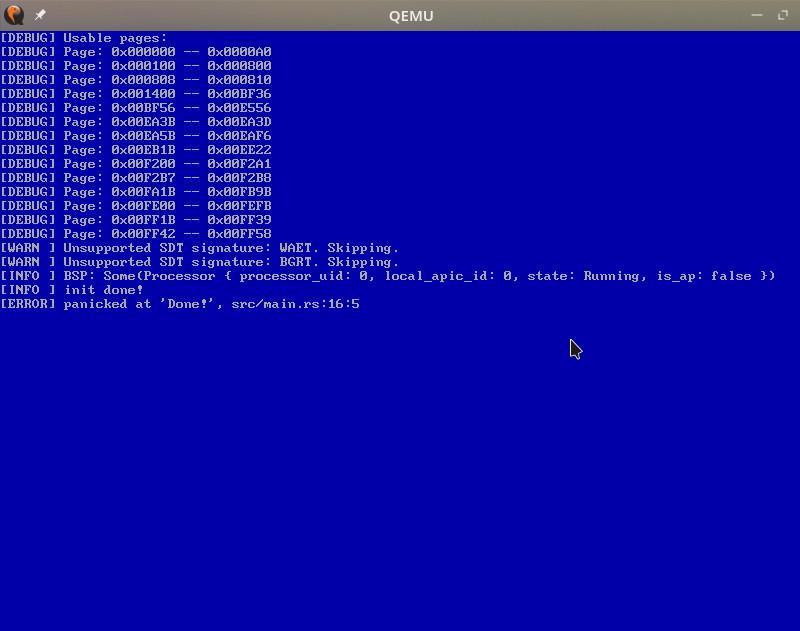
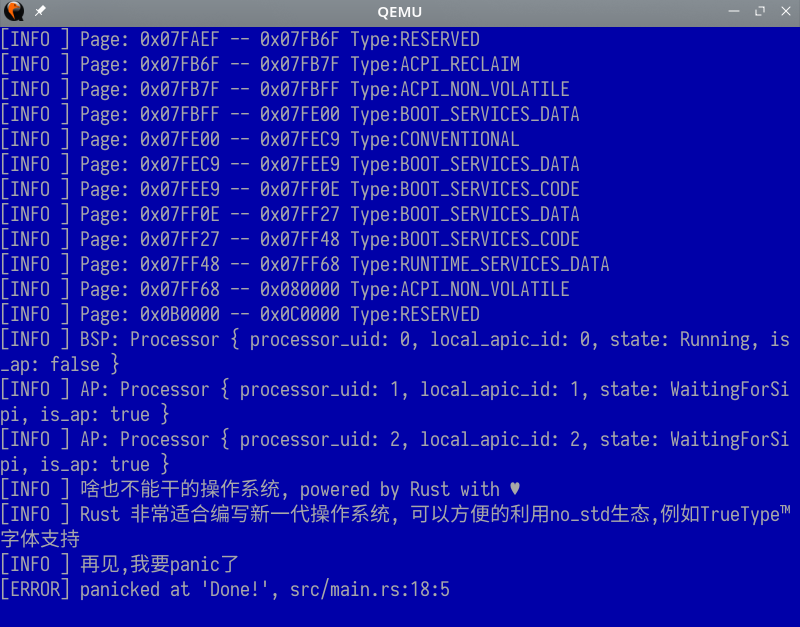
make truefont work!

diff --git a/src/console/uefifb.rs b/src/console/uefifb.rs
@@ -1,8 +1,17 @@
 use super::CONSOLE;
+use core::ptr::NonNull;
 use fbterm::*;
-use uefi::{prelude::*, proto::console::gop::GraphicsOutput};
+use uefi::{
+    prelude::*,
+    proto::console::gop::GraphicsOutput,
+    proto::media::{
+        file::{File, FileAttribute, FileInfo, FileMode, FileType},
+        fs::SimpleFileSystem,
+    },
+    table::boot,
+};
 
-pub fn init(st: &SystemTable<Boot>) {
+pub fn get_fb(st: &SystemTable<Boot>) -> Framebuffer<'static, RGBA8888> {
     let bt = st.boot_services();
     let gop = bt
         .locate_protocol::<GraphicsOutput>()
@@ -15,10 +24,78 @@ pub fn init(st: &SystemTable<Boot>) {
     let background = RGBA8888::new(0, 0, 0, 0xA8);
     let foreground = RGBA8888::new(255, 0xA8, 0xA8, 0xA8);
     let (w, h) = info.resolution();
-    let fb = unsafe { Framebuffer::new(fb, w, h, info.stride(), background, foreground) };
-    let mut fbterm = Fbterm::new(fb, fbterm::Fonts::VGA8x14);
-    fbterm.clear();
-    CONSOLE.lock().fbterm = Some(fbterm);
+    let fb = NonNull::new(fb).unwrap();
+    unsafe { Framebuffer::new(fb, w, h, info.stride(), background, foreground) }
+}
+
+pub fn get_font(st: &SystemTable<Boot>) -> &'static [u8] {
+    let bt = st.boot_services();
+    let fs = bt
+        .locate_protocol::<SimpleFileSystem>()
+        .expect_success("UEFI SimpleFileSystem not support");
+    let fs = unsafe { &mut *fs.get() };
+    let mut root = fs.open_volume().expect_success("Open volume failed");
+    let font_file = root
+        .open("font.ttf", FileMode::Read, FileAttribute::VALID_ATTR)
+        .expect_success("Failed to load font.ttf")
+        .into_type()
+        .expect_success("file.into_type");
+    let mut font_file = match font_file {
+        FileType::Dir(_) => {
+            panic!("Expect font.ttf is a regular file, not a diectory!");
+        }
+        FileType::Regular(file) => file,
+    };
+    info!("open font.ttf");
+    let file_size = {
+        let mut len = 128;
+        let mut buffer_ptr = bt
+            .allocate_pool(boot::MemoryType::LOADER_DATA, len)
+            .expect_success("alloc failed");
+        let mut buffer = unsafe { core::slice::from_raw_parts_mut(buffer_ptr, len) };
+        let file_info = loop {
+            match font_file.get_info::<FileInfo>(&mut buffer) {
+                Ok(r) => break r.unwrap(),
+                Err(e) => {
+                    len = e.data().unwrap();
+                    bt.free_pool(buffer_ptr)
+                        .expect_success("Failed to free memory");
+                    buffer_ptr = bt
+                        .allocate_pool(boot::MemoryType::LOADER_DATA, len)
+                        .expect_success("alloc failed");
+                    buffer = unsafe { core::slice::from_raw_parts_mut(buffer_ptr, len) };
+                    continue;
+                }
+            }
+        };
+        let file_size = file_info.file_size();
+        drop(file_info);
+        drop(buffer);
+        bt.free_pool(buffer_ptr)
+            .expect_success("Failed to free memory");
+        file_size as usize
+    };
+    info!("font.ttf size: {} bytes", file_size);
+    let font_ptr = bt
+        .allocate_pool(boot::MemoryType::LOADER_DATA, file_size)
+        .expect_success("alloc failed");
+    let font = unsafe { core::slice::from_raw_parts_mut(font_ptr, file_size) };
+    font_file
+        .read(font)
+        .expect_success("Failed to read font.ttf");
+    info!("read font.ttf to memory");
+    font as &[u8]
+}
+
+pub fn init(fb: Framebuffer<'static, RGBA8888>, font: &[u8]) {
+    let mut console = CONSOLE.lock();
+    let font = TrueTypeFont::new(font, 20.0);
+    let mut newterm = Fbterm::new(fb, font);
+    let double_buffer = alloc::vec![0u8; newterm.framebuffer.buffer_size()];
+    // FIXME: don't use leak
+    let addr = NonNull::new(double_buffer.leak().as_mut_ptr()).unwrap();
+    unsafe { newterm.framebuffer.set_double_buffer(addr) };
+    console.fbterm = Some(newterm);
 }
 
 #[cfg(not(debug_assertions))]

diff --git a/src/mm/mod.rs b/src/mm/mod.rs
@@ -1,20 +1,24 @@
 mod page;
 
-use page::FrameAllocator;
-
 use alloc::alloc::{GlobalAlloc, Layout};
+use core::iter::ExactSizeIterator;
+use page::FrameAllocator;
 use spin::Mutex;
 use uefi::table::boot::MemoryDescriptor;
 use x86_64::registers::control::Cr3;
 use x86_64::structures::paging::{mapper::OffsetPageTable, PageTable};
 
-pub fn init(map: impl Iterator<Item = &'static MemoryDescriptor>) {
-    *FRAME_ALLOCATOR.lock() = Some(FrameAllocator::from_uefi(map));
+pub fn init(
+    map: impl ExactSizeIterator<Item = &'static MemoryDescriptor> + Clone,
+) -> impl ExactSizeIterator<Item = &'static MemoryDescriptor> + Clone {
+    *FRAME_ALLOCATOR.lock() = Some(FrameAllocator::from_uefi(map.clone()));
     let (frame, _flags) = Cr3::read();
     let phys = frame.start_address().as_u64();
     let page_table = unsafe { &mut *(phys as *mut PageTable) };
     let page_table = unsafe { OffsetPageTable::new(page_table, x86_64::VirtAddr::zero()) };
     *PAGE_TABLE_MAPPER.lock() = Some(page_table);
+    debug!("Allocator is initialized!");
+    map
 }
 
 #[global_allocator]
@@ -25,6 +29,14 @@ static PAGE_TABLE_MAPPER: Mutex<Option<OffsetPageTable>> = Mutex::new(None);
 static FRAME_ALLOCATOR: Mutex<Option<FrameAllocator>> = Mutex::new(None);
 
 pub struct PageAllocator;
+
+pub fn size() -> usize {
+    let mut allocator = FRAME_ALLOCATOR.lock();
+    allocator
+        .as_mut()
+        .expect("Allocator not initialized")
+        .size()
+}
 
 unsafe impl GlobalAlloc for PageAllocator {
     unsafe fn alloc(&self, layout: Layout) -> *mut u8 {

diff --git a/src/lib.rs b/src/lib.rs
@@ -6,7 +6,6 @@
 #[macro_use]
 extern crate log;
 extern crate alloc;
-extern crate rlibc;
 
 pub mod acpi;
 pub mod console;
@@ -20,6 +19,8 @@ use uefi::{
 
 pub fn init(image: uefi::Handle, st: SystemTable<Boot>) {
     console::init(&st);
+    let fb = console::uefifb::get_fb(&st);
+    let font = console::uefifb::get_font(&st);
     let bt = st.boot_services();
     let mmap_size =
         st.boot_services().memory_map_size() + 8 * core::mem::size_of::<boot::MemoryDescriptor>();
@@ -31,12 +32,25 @@ pub fn init(image: uefi::Handle, st: SystemTable<Boot>) {
         .exit_boot_services(image, &mut buffer[..])
         .expect_success("Failed to exit boot services");
     unsafe { int::init() }
-    mm::init(map);
-    let acpi = acpi::get_acpi(&st);
-    info!("BSP: {:?}",acpi.boot_processor);
-    for ap in acpi.application_processors{
-        info!("AP: {:?}",ap)
+    let map = mm::init(map);
+    console::uefifb::init(fb, font);
+    for mem in map {
+        info!(
+            "Page: 0x{:06X} -- 0x{:06X} Type:{:?}",
+            mem.phys_start >> 12,
+            (mem.phys_start >> 12) + mem.page_count,
+            mem.ty
+        );
     }
+    use ::acpi::PlatformInfo;
+    let acpi = acpi::get_acpi(&st);
+    let plat = PlatformInfo::new(&acpi).unwrap();
+    let proc_info = plat.processor_info.unwrap();
+    info!("BSP: {:?}", proc_info.boot_processor);
+    for ap in proc_info.application_processors {
+        info!("AP: {:?}", ap)
+    }
+    info!("Available memory: {} Bytes", mm::size());
 }
 
 pub fn hlt_loop() -> ! {

diff --git a/src/acpi.rs b/src/acpi.rs
@@ -1,31 +1,34 @@
-use acpi::handler;
+use acpi::AcpiHandler;
+use acpi::AcpiTables;
 use core::ptr::NonNull;
 use uefi::table::{Runtime, SystemTable};
 
-pub fn get_acpi(st: &SystemTable<Runtime>) -> acpi::Acpi {
+pub fn get_acpi(st: &SystemTable<Runtime>) -> acpi::AcpiTables<Ident> {
     let cfg = st.config_table();
     let rsdp = cfg
         .into_iter()
         .find(|cfg| cfg.guid == uefi::table::cfg::ACPI2_GUID)
         .expect("Can't find ACPI Table")
         .address as usize;
-    unsafe { acpi::parse_rsdp(&mut Ident, rsdp).unwrap() }
+    unsafe { AcpiTables::from_rsdp(Ident, rsdp).unwrap() }
 }
 
-struct Ident;
+#[derive(Copy, Clone)]
+pub struct Ident;
 
-impl handler::AcpiHandler for Ident {
+impl AcpiHandler for Ident {
     unsafe fn map_physical_region<T>(
-        &mut self,
+        &self,
         physical_address: usize,
         size: usize,
-    ) -> handler::PhysicalMapping<T> {
-        handler::PhysicalMapping {
+    ) -> acpi::PhysicalMapping<Ident, T> {
+        acpi::PhysicalMapping {
             physical_start: physical_address,
             virtual_start: NonNull::new(physical_address as *mut T).unwrap(),
             region_length: size,
             mapped_length: size,
+            handler: Ident,
         }
     }
-    fn unmap_physical_region<T>(&mut self, _region: handler::PhysicalMapping<T>) {}
+    fn unmap_physical_region<T>(&self, _region: &acpi::PhysicalMapping<Ident, T>) {}
 }

diff --git a/src/mm/page.rs b/src/mm/page.rs
@@ -17,12 +17,6 @@ impl FrameAllocator {
             map: StaticVec::new(),
         };
         for mem in mem_iter {
-            trace!(
-                "Page: 0x{:06X} -- 0x{:06X} Type:{:?}",
-                mem.phys_start >> 12,
-                (mem.phys_start >> 12) + mem.page_count,
-                mem.ty
-            );
             assert!(mem.page_count > 0);
             if let MemoryType::CONVENTIONAL | MemoryType::BOOT_SERVICES_CODE = mem.ty {
                 let item = FreeFrame {
@@ -89,5 +83,10 @@ impl FrameAllocator {
         for i in self.map.iter() {
             debug!("Page: 0x{:06X} -- 0x{:06X}", i.start, i.start + i.len)
         }
+    }
+
+    pub fn size(&self) -> usize {
+        let frames: u32 = self.map.iter().map(|f| f.len).sum();
+        (frames as usize) * 4096
     }
 }

diff --git a/src/console/mod.rs b/src/console/mod.rs
@@ -13,7 +13,7 @@ static CONSOLE: Mutex<Console> = Mutex::new(Console {
 });
 
 pub struct Console {
-    fbterm: Option<Fbterm<'static, RGBA8888>>,
+    fbterm: Option<Fbterm<'static, RGBA8888, TrueTypeFont>>,
     uart: Option<UART>,
 }
 
@@ -35,8 +35,8 @@ pub macro println($($arg:tt)*) {
     print!("{}\r\n", format_args!($($arg)*))
 }
 
-pub fn init(st: &SystemTable<Boot>) {
+pub fn init(_st: &SystemTable<Boot>) {
     log::init();
     uart::init();
-    uefifb::init(st);
+    //uefifb::init(st);
 }

diff --git a/src/main.rs b/src/main.rs
@@ -12,6 +12,8 @@ extern crate alloc;
 #[entry]
 fn efi_main(image: uefi::Handle, st: SystemTable<Boot>) -> Status {
     os::init(image, st);
-    info!("init done!");
+    info!("啥也不能干的操作系统, powered by Rust with ♥");
+    info!("Rust 非常适合编写新一代操作系统, 可以方便的利用no_std生态,例如TrueType™字体支持");
+    info!("再见,我要panic了");
     panic!("Done!")
 }

diff --git a/README.md b/README.md
@@ -12,16 +12,23 @@ Install OVMF and set `bios = "<path to OVMF.fd>"` in `Cargo.toml`.
 
 **Note**: you can download [Gerd Hoffmann's OVMF builds](https://www.kraxel.org/repos/jenkins/edk2/) (edk2.git-ovmf-x64*.noarch.rpm) and use `OVMF_CODE.fd`.
 
+## Setting
+
+You need provied a ttf font in `Cargo.toml`
+
+```toml
+[package.metadata.bootuefi.copy]
+"/usr/share/fonts/sarasa/sarasa-mono-sc-regular.ttf" = "font.ttf"
+```
+
 ## Run
 
 ```shell
-cargo run -Z build-std=core,alloc
-```
-
-or using `cargo-xbuild`
-
-```shell
-cargo xrun
+cargo run --release
 ```
 
 ![os](./doc/os.png)
+
+## TODO
+
+The allocator is **just** enough to boot and draw on screen. It's inefficiency!
